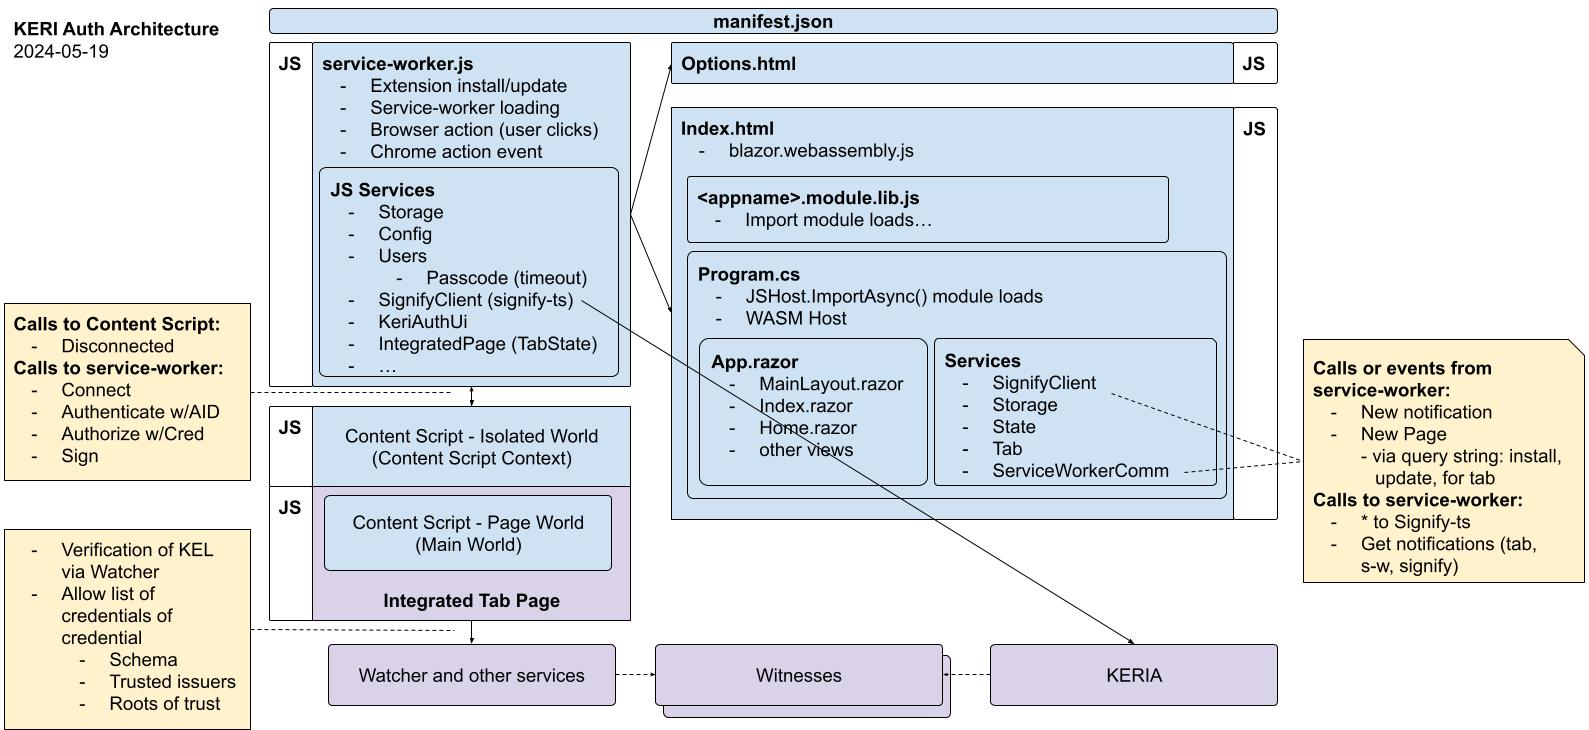
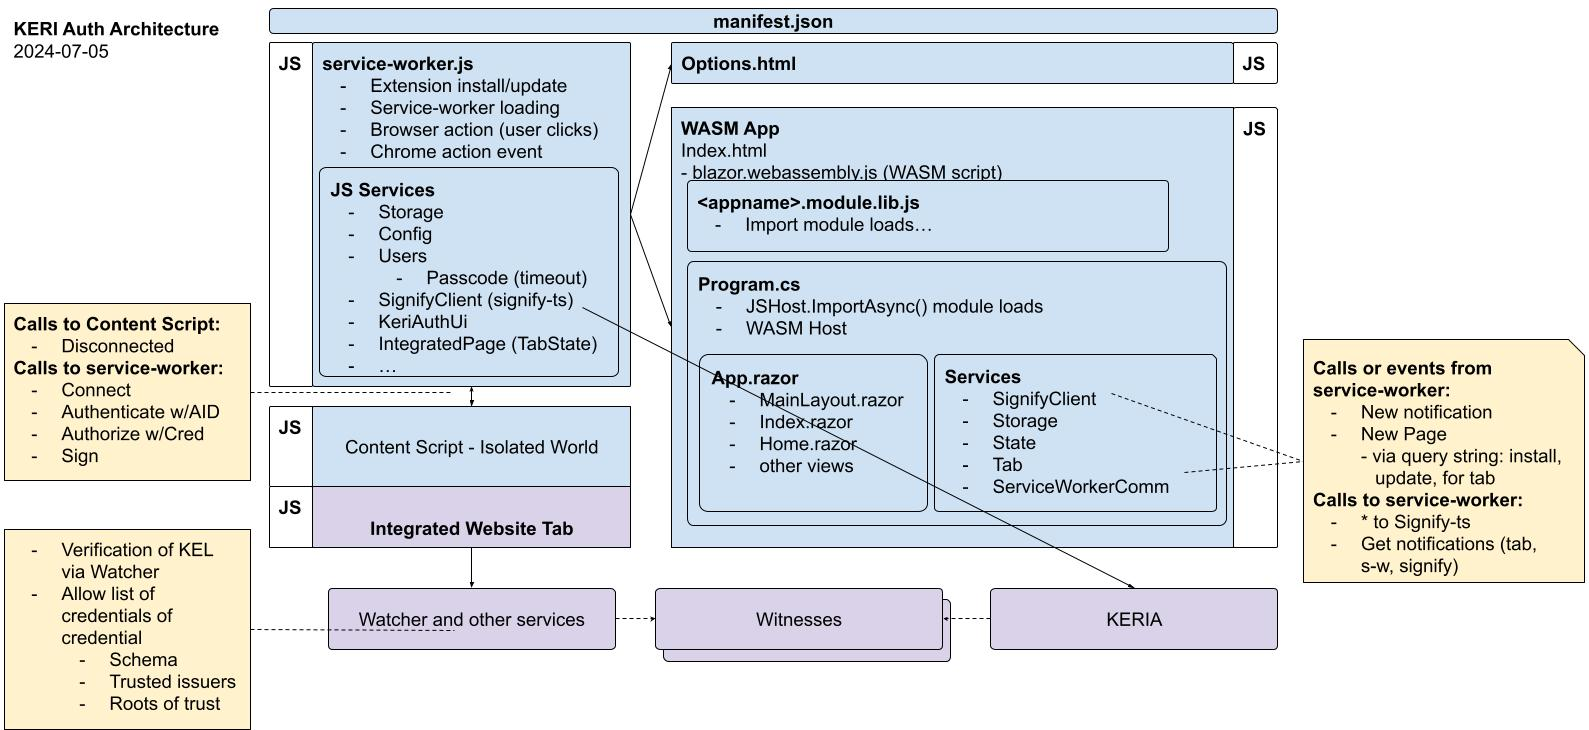
Updated README and architecture diagram

diff --git a/README.md b/README.md
@@ -1,44 +1,63 @@
 # KERI Auth Browser Extension
-
 [![KERI Auth build](https://github.com/keriauth/keriauth-blazor-wasm/actions/workflows/dotnet.yml/badge.svg)](https://github.com/keriauth/keriauth-blazor-wasm/actions/workflows/dotnet.yml)
-
-## Summary
-This extension removes a class of problems website owners have with managing usernames and passwords or relying on federated identity providers that risk leaking or correlating user usage patterns. 
-
-The primary goal of this extension is to provide a highly secure way to authentically "sign in" to certain websites. The browser extension under development will enable a user to interact with conforming websites, to *authenticate* with the user’s KERI identifier and to *authorize* with an ACDC credential they’ve been issued. 
-
-Its passwordless design enables the user to create and manage their own stable identifiers (KERI AIDs), signing keys, and credentials. It utilizes credentials issued by the website owners and/or other issuers they trust.
-
-The browser extension, implemented for Chromium browsers, uses the [WebOfTrust/signify-ts](https://github.com/weboftrust/signify-ts) component to connect with an instance of [KERIA](https://github.com/weboftrust/keria), a KERI cloud agent, which safely manages the user’s AIDs, associated keys, credentials, and other services. The user can choose whether they host a KERIA instance themselves or use one provided by a third party.
-
-## Contents
-- [Architecture](#architecture) 
-  - [Service-worker](#service-worker)
-  - [Browser Extension Action Icon/Button](#browser-extension-action-iconbutton)
-  - [Content Script](#content-script)
-  - [Integrated Web Page](#integrated-web-page)
-  - [Blazor WASM Components](#blazor-wasm-components)
-    - [Single Page App](#single-page-app)
-    - [Views](#views)
-    - [Services](#services)
-- [Security considerations](#security-considerations)
-- [Run for development](#run-for-development)
-- [Roadmap](#roadmap)
-- [Installation](#installation)
-- [Usage](#usage)
-- [Configuration](#configuration)
-- [Development Setup](#development-setup)
-- [Contributing](#contributing)
-- [License](#license)
-- [Acknowledgments](#acknowledgments)
-- [Contact Information](#contact-information)
+# Overview
+**KERI Auth** is a browser extension designed to accelerate adoption of establishing secure and authentic trust between an individual and website they visit, based on the emerging standards and implementations for identifiers (KERI), credentials (ACDC), and other Trust Over IP objectives. 
+These solutions are aimed at greatly reducing security and privacy vulnerabilities with today’s set of internet mechanisms (e.g., federated identity, passwords, SMS 2FA, certificate authority processes, shared secrets, access tokens, and DNS).
+The KERI Auth 1.0 release is currently under development and targets the features below.
+# Contents
+- [Features](#features)
+- [For Users](#for_users)
+  - [Installation](#installation)
+  - [Runtime Dependencies](#dependencies)
+- [For Developers](#developers)
+  - [Architecture](#architecture)
+  - [Development Setup](#development-setup)
+  - [Run for development](#run-for-development)
+  - [License](#license)
+  - [Acknowledgments](#acknowledgments)
 - [Community](#community)
 - [References](#references)
 
+# Features
+From the end user’s perspective, the extension enables the user to create and manage their own stable identifiers (KERI AIDs), signing keys, and credentials. It can utilize credentials issued by the website owner and/or other issuers they trust.
+V1.0 target features include:
+* Configure a connection with a KERI Agent Service of your choosing
+* Create one or more KERI identifiers
+* Select your current KERI identifier
+* View credentials issued to your identifiers
+* Visit websites supporting KERI's Signify protocol, and:
+  * Launch the extension
+  * Authenticate ("sign in") with your KERI identifier
+  * Authorize ("sign in") with a credential you've received
+
+Product Roadmap goals will evolve and may include interoperability with other KERI-related extensions and website JavaScript APIs. 
+For more information, see https://keriauth.com, GitHub Issues, and join the [community](#community) discussions.
+
+<hr/>
+
+# For Users
+
+## Installation
+The extension will eventually be available for installation from the Chrome Web Store. Until then, please contact us for the latest pre-release and instructions.
+
+## Runtime Dependencies
+To successfully install and use the KERI Auth browser extension, you need the following:
+* **Chromium-based Browser** version 127 (released July 2024) or later. Chrome, Edge, or Brave. 
+* **Web page supporting Signify**, a JavaScript API protocol
+* **Connection to KERI Agent Service**. [KERIA]((https://github.com/weboftrust/keria)) is a multi-tenant service that provides infrastructure for one or more Signify clients such as the KERI Auth browser extension.
+Over time, we expect many KERIA service providers to be available, including a turn-key self-hosted option. There is currently no turn-key solution to set up a KERIA service along with configured Witness services and Watcher network.
+KERIA creates a separate agent instance for each Signify client as well as partitions the server’s storage to isolate agent instances from each other. 
+The KERIA agent instance does not hold any of the user’s signing keys, as signing is the job for a Signify client. 
+The agent instance does hold ACDCs (which may contain PII) as it needs to verify KEL-backed signatures and does exchange messages with other agents on behalf of the AID’s controller.
+
+<hr/>
+
+# For Developers
 ## Architecture
+
+This diagram depicts the primary components of the solution and how they interact. The sections below provide more detail on the components.
 ![KERI Auth Architecture](KERIAuthArchitecture.jpg)
 Figure: KERI Auth Browser Extension Architecture ([source](https://docs.google.com/drawings/d/1xICKkvaJkS4IrOGcj_3GidkKHu1VcIrzGCN_vJSvAv4))
-<!-- The browser extension is composed of the following components: -->
 
 ### Manifest.json
 * Describes the extension and its permissions.
@@ -50,105 +69,77 @@ Figure: KERI Auth Browser Extension Architecture ([source](https://docs.google.c
 
 ### Service-worker
 * Runs background tasks.
-* Sends and handles messages to/from the integrated webpage via injected content script.
-* Sends and handles messages to/from the WASM components.
+* Sends and handles messages to/from the webpage via the extension's content script.
+* Sends and handles messages to/from the WASM App.
 * Persists configuration via chrome.storage.local.
 * Communicates with KERIA agent via signify-ts library.
 
-### Content Script Context
+### Content Script
 * With the user’s permission this script is injected into the active web page after the user initiates the action.
+* Runs in an isolated JavaScript context
 * Handles messages to/from the website via a JavaScript API that the web page also implements.
 * Handles messages to/from the service-worker.
 
-### Integrated Web Page
-* Provided by a website owner, leveraging interfaces on the Content Script.
-* Interacts with extension via content script to get user's choice of AID and Credential.
-* Responsible for validating and determining acceptance of presented AID and Credential.
+### Web Page
+* Provided by a website owner, leveraging JavaScript interfaces on the Content Script, which follows the Signify protocol.
+* Interacts with extension via content script to get user's choice of Identifier (KERI AID) and Credential (ACDC).
+* Responsible for validating and determining acceptance of presented Identifier and Credential. May use other services for validation of the identifier's key-state, credential schema, and issuer's root of trust.
 
-### Blazor WASM Components
+### Blazor WASM App Components
 
-#### Single Page App (index.html)
-* Program and page that run in browser WASM when any non-trivial extension UI is visible.
-* Includes services and views.
+#### Single Page App
+* Bootstrapped by index.html
+* Program.cs, App.wasm, Razor pages, and services that run as WASM when any non-trivial extension UI is visible.
 
-#### Views (via App.razor)
-* May appear as a popup (typically) or in a full tab.
+#### Pages
+* May be hosted by the browser's Action Popup (typically), a browser popup window, or a browser tab.
 
 #### Services
-* Interact with service-worker (and indirectly the webpages) via messages.
-* Communicates with KERIA agent via signify-ts library.
+* Interact with service-worker (and indirectly the web pages) via messages.
+* Communicates with KERIA service via the signify-ts library.
 * Persists configuration and notifications via chrome.storage.local.
 
 ### Design security considerations
 The following rules are enforced by design to ensure the security of the extension:
-* Only sends signed headers to the website if the user has previously created a signing association with that website.
-* Only sends signed headers to the website if the website is the active tab on the browser.
-* Caches the passcode only temporarily and clears from cache after a few minutes.
-* Only accepts content script messages from the active tab website, during authentication or after a signing association exists with the auto-authenticate flag enabled.
-* Declare minimum required and optional permissions in its manifest.
+* Only sends signed requests ("headers") to the website if the user has previously authorized a signing association with that website.
+* Only sends signed requests to the website if the website is the active tab on the browser.
+* Caches the passcode only temporarily and clears it from cache after a few minutes.
+* Only accepts content script messages from the active tab website, during authentication or after a signing association exists with the auto-authenticate (sign in) flag enabled.
+* Declare minimum required and optional permissions in the extension's manifest.
 * Never runs dynamic or inline scripts.
-* Assures all sensitive data never reaches the content script or website.
-
-# Roadmap
-The goals for KERI Auth Brower Extension will evolve and may include interoperability with other KERI-related extensions and website JavaScript APIs. The high-level backlog and roadmap will be shown on https://keriauth.com, and details in GitHub Issues
-<hr/>
-
-## Install Prerequisites
-* Run or get access to a KERIA instance. See [KERIA README](https://github.com/WebOfTrust/keria/blob/main/README.md). Run test suites
-* **TBD**
+* Assures all sensitive data (e.g., passcode) never reaches the content script or website.
 
 ## Development Setup and Build
-**TBD** Instructions for setting up a development environment:
 - Prerequisites (Node.js, npm, browser development tools, etc.).
-- Cloning the repository and building the extension.
-- Running tests.
+- Clone the repository and build the extension.
 
 ## Extension Installation
-**TBD** Step-by-step instructions for installing the extension:
-- From a public repository (like Chrome Web Store).
-- From the source code via `load unpacked` in developer mode.
+- After building from source code, use Chrome/Edge/Brave's "developer mode" and press `load unpacked`, selecting the directory KeriAuth.BrowserExtension\bin\Release\net8.0\browserextension.
 
-## Usage
-**TBD** add detailed instructions on how to use the extension, including:
-- Key features and how to access them.
-- Screenshots or GIFs to illustrate functionality.
-- Typical workflows and use cases.
+<hr/>
 
-## Configuration
-**TBD** Information on customizing the extension, if applicable:
-- Configurable options.
-- Instructions for changing settings.
-
-<!-- 
-## Contributing
-Guidelines for contributing to the project:
-- How to submit issues and pull requests.
-- Coding standards and best practices.
-- Code of conduct and community guidelines.
--->
-
-## Acknowledgments
+# Acknowledgments
 We especially appreciate the contributors of following libraries we use:
 * [WebOfTrust/signify-ts](https://github.com/webOfTrust/signify-ts/) by WebOfTrust
 * [mingyaulee/Blazor.BrowserExtension](https://github.com/mingyaulee/Blazor.BrowserExtension) by mingyaulee
 <!-- TODO See acknowledgements file for other 3rd parties utilized -->
 
-<!--
-## Contact Information
-Contact information for the project maintainer(s):
-- Email, GitHub profiles, or social media links.
--->
+<hr/>
 
-## Community
-Join the project's community on [Discord](https://discord.gg/Va79ag9RCw).
+# Community
+Join the project's community on [Discord](https://discord.gg/Va79ag9RCw), or via Trust Over IP Foundation projects.
 
-## References
-### Articles
-* [Sign and Verify with Signify & Keria](https://medium.com/finema/keri-tutorial-sign-and-verify-with-signify-keria-833dabfd356b)
+<hr/>
+
+# Highlighted References
+## Articles
 * [Introduction to KERI](https://medium.com/finema/the-hitchhikers-guide-to-keri-part-1-51371f655bba)
 * [Introduction to ACDC](https://medium.com/finema/the-hitchhikers-guide-to-acdc-part-1-4b3b3b3b3b3b)
-### Repositories
+* [Sign and Verify with Signify & Keria](https://medium.com/finema/keri-tutorial-sign-and-verify-with-signify-keria-833dabfd356b)
+## Repositories
 * [WebOfTrust/signify-ts](https://github.com/WebOfTrust/signify-ts)
 * [WebOfTrust/signify-browser-extension](https://github.com/WebOfTrust/signify-browser-extension)
+* [WebOfTrust/keria](https://github.com/WebOfTrust/keria)
 * [cardano-foundation/cf-identity-wallet](https://github.com/cardano-foundation/cf-identity-wallet)
 * [cardano-foundation/cf-poc-tunnel](https://github.com/cardano-foundation/cf-poc-tunnel)
+
